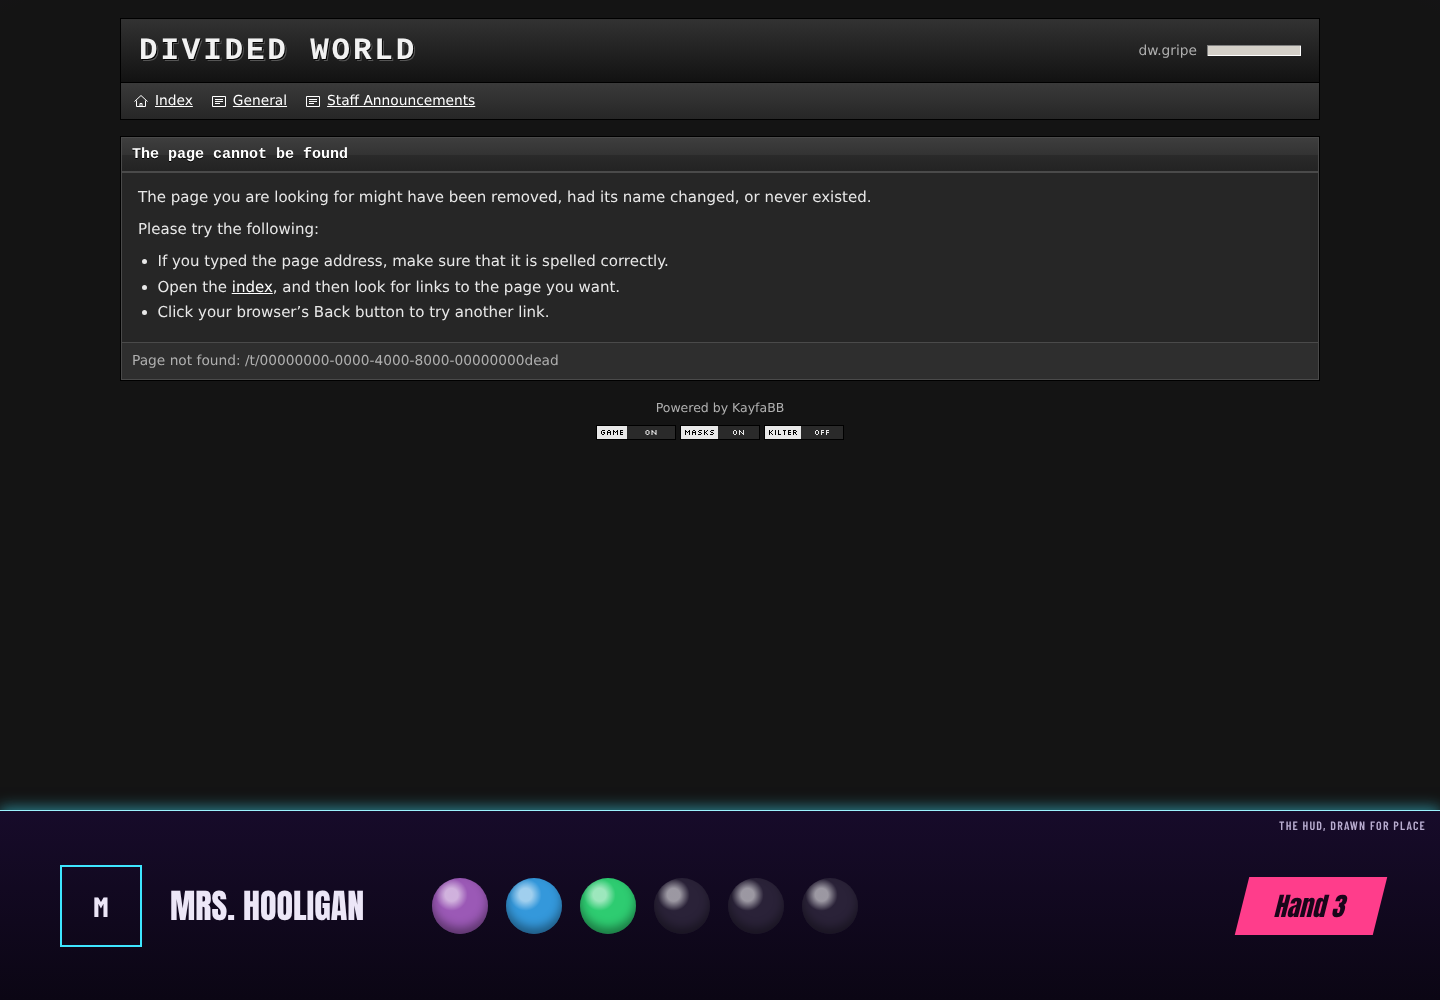
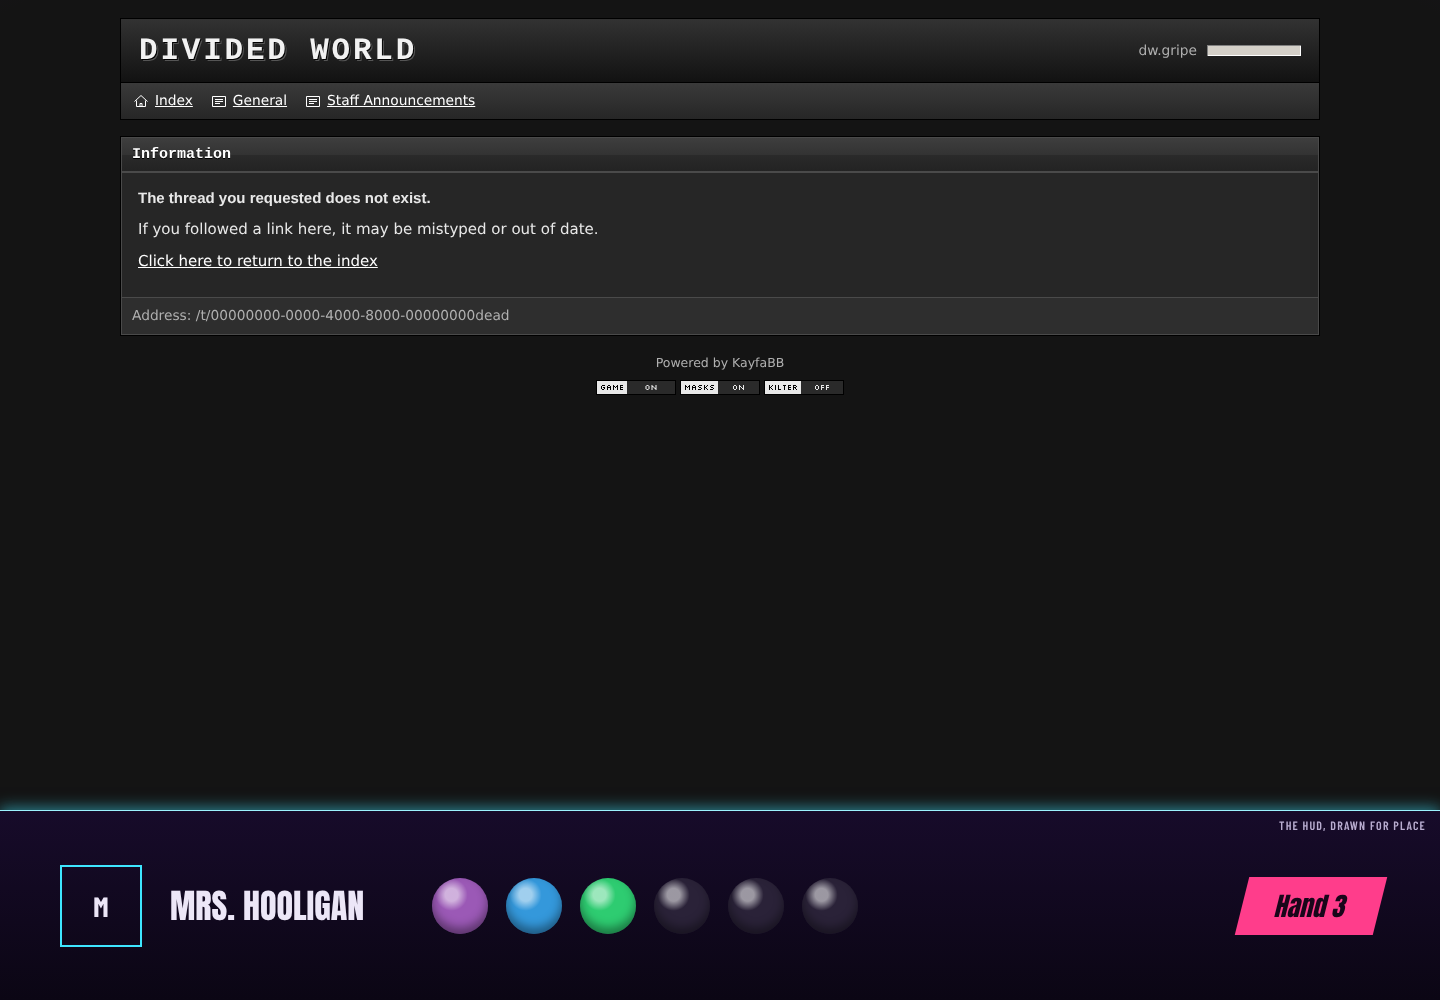
Board look design, batch 5: not found speaks as a classic forum's Information box
Claude-Session: https://claude.ai/code/session_01FiUbYNcRXR8HFEG3Dr1zti

Changed region(s): [[0.0625, 0.186, 0.9375, 0.465], [0.125, 0.124, 0.1875, 0.155]]

diff --git a/docs/research/2026-11-06-board-look/18-phone.html b/docs/research/2026-11-06-board-look/18-phone.html
@@ -340,7 +340,7 @@ table.modlog td.end { width: 220px; font-size: 13.75px; color: var(--kb-muted); 
 .phone .notice-wrap { margin-top: 30px; }
 /* ---------- batch 5: the errors ---------- */
 /* Not found is the forum answering, in its own skin: a period "Information" box. */
-table.info h1.barh { font: inherit; margin: 0; }
+table.info h1.missing { font: bold 15px/1.45 Verdana, Geneva, sans-serif; margin: 0 0 10px; }
 table.info td.msg { padding: 14px 16px; }
 table.info td.msg p { margin: 0 0 10px; }
 table.info td.msg ul { margin: 0 0 4px; padding-left: 1.3em; }
@@ -420,13 +420,13 @@ body { width: 1632px; height: 844px; }
     <button class="b boards" type="button">Boards</button>
   </header>
   <nav class="nav" aria-label="Boards"><a href="#"><svg class="ic" aria-hidden="true" width="16" height="14" viewBox="0 0 16 14"><path class="s" d="M1.5,7.5 L8,1.5 L14.5,7.5 M3.5,6.5 V12.5 H12.5 V6.5 M7,12.5 V9.5 H9 V12.5"/></svg>Index</a><a href="#"><svg class="ic" aria-hidden="true" width="16" height="14" viewBox="0 0 16 14"><path class="s" d="M1.5,2.5 H14.5 V12.5 H1.5 Z M4,5.5 H12 M4,7.5 H12 M4,9.5 H9"/></svg>General</a><a href="#"><svg class="ic" aria-hidden="true" width="16" height="14" viewBox="0 0 16 14"><path class="s" d="M1.5,2.5 H14.5 V12.5 H1.5 Z M4,5.5 H12 M4,7.5 H12 M4,9.5 H9"/></svg>Staff Announcements</a></nav>
-  <table class="t info"><caption class="vh">The page cannot be found</caption>
-    <thead><tr><td class="bar"><h1 class="barh">The page cannot be found</h1></td></tr></thead>
+  <table class="t info"><caption class="vh">Information</caption>
+    <thead><tr><td class="bar">Information</td></tr></thead>
     <tbody>
-      <tr><td class="msg"><p>The page you are looking for might have been removed, had its name changed, or never existed.</p>
-        <p>Please try the following:</p>
-        <ul><li>If you typed the page address, make sure that it is spelled correctly.</li><li>Open the <a href="#">index</a>, and then look for links to the page you want.</li><li>Click your browser’s Back button to try another link.</li></ul></td></tr>
-      <tr><td class="addr">Page not found: /c/nobody</td></tr>
+      <tr><td class="msg"><h1 class="missing">The character you requested does not exist.</h1>
+        <p>If you followed a link here, it may be mistyped or out of date.</p>
+        <p><a href="#">Click here to return to the index</a></p></td></tr>
+      <tr><td class="addr">Address: /c/nobody</td></tr>
     </tbody></table>
   <footer class="foot">Powered by KayfaBB
     <div class="badges" aria-hidden="true"><span class="b80"><span>Game</span><span>On</span></span><span class="b80"><span>Masks</span><span>On</span></span><span class="b80"><span>Kilter</span><span>Off</span></span></div>
@@ -454,13 +454,13 @@ body { width: 1632px; height: 844px; }
     <button class="b boards" type="button">Boards</button>
   </header>
   <nav class="nav" aria-label="Boards"><a href="#"><svg class="ic" aria-hidden="true" width="16" height="14" viewBox="0 0 16 14"><path class="s" d="M1.5,7.5 L8,1.5 L14.5,7.5 M3.5,6.5 V12.5 H12.5 V6.5 M7,12.5 V9.5 H9 V12.5"/></svg>Index</a><a href="#"><svg class="ic" aria-hidden="true" width="16" height="14" viewBox="0 0 16 14"><path class="s" d="M1.5,2.5 H14.5 V12.5 H1.5 Z M4,5.5 H12 M4,7.5 H12 M4,9.5 H9"/></svg>General</a><a href="#"><svg class="ic" aria-hidden="true" width="16" height="14" viewBox="0 0 16 14"><path class="s" d="M1.5,2.5 H14.5 V12.5 H1.5 Z M4,5.5 H12 M4,7.5 H12 M4,9.5 H9"/></svg>Staff Announcements</a></nav>
-  <table class="t info"><caption class="vh">The page cannot be found</caption>
-    <thead><tr><td class="bar"><h1 class="barh">The page cannot be found</h1></td></tr></thead>
+  <table class="t info"><caption class="vh">Information</caption>
+    <thead><tr><td class="bar">Information</td></tr></thead>
     <tbody>
-      <tr><td class="msg"><p>The page you are looking for might have been removed, had its name changed, or never existed.</p>
-        <p>Please try the following:</p>
-        <ul><li>If you typed the page address, make sure that it is spelled correctly.</li><li>Open the <a href="#">index</a>, and then look for links to the page you want.</li><li>Click your browser’s Back button to try another link.</li></ul></td></tr>
-      <tr><td class="addr">Page not found: /c/nobody</td></tr>
+      <tr><td class="msg"><h1 class="missing">The character you requested does not exist.</h1>
+        <p>If you followed a link here, it may be mistyped or out of date.</p>
+        <p><a href="#">Click here to return to the index</a></p></td></tr>
+      <tr><td class="addr">Address: /c/nobody</td></tr>
     </tbody></table>
   <footer class="foot">Powered by KayfaBB
     <div class="badges" aria-hidden="true"><span class="b80"><span>Game</span><span>On</span></span><span class="b80"><span>Masks</span><span>On</span></span><span class="b80"><span>Kilter</span><span>Off</span></span></div>

diff --git a/docs/research/2026-11-06-board-look/16-not-found-dark.html b/docs/research/2026-11-06-board-look/16-not-found-dark.html
@@ -2,7 +2,7 @@
 <html lang="en" data-kb-mode="dark">
 <head>
 <meta charset="utf-8">
-<title>The page cannot be found, Silver dark</title>
+<title>Information: not found, Silver dark</title>
 <!-- A board of the board look design session (docs/plans/2026-11-06-board-look-design.md), batch 5, 1440 by 1000, written by gen.mjs. -->
 <link rel="stylesheet" href="https://fonts.googleapis.com/css2?family=Anton&family=Barlow+Condensed:wght@600;700&family=Silkscreen&display=swap">
 <style>
@@ -340,7 +340,7 @@ table.modlog td.end { width: 220px; font-size: 13.75px; color: var(--kb-muted); 
 .phone .notice-wrap { margin-top: 30px; }
 /* ---------- batch 5: the errors ---------- */
 /* Not found is the forum answering, in its own skin: a period "Information" box. */
-table.info h1.barh { font: inherit; margin: 0; }
+table.info h1.missing { font: bold 15px/1.45 Verdana, Geneva, sans-serif; margin: 0 0 10px; }
 table.info td.msg { padding: 14px 16px; }
 table.info td.msg p { margin: 0 0 10px; }
 table.info td.msg ul { margin: 0 0 4px; padding-left: 1.3em; }
@@ -374,13 +374,13 @@ body { width: 1440px; height: 1000px; }
     <div class="host">dw.gripe <span class="meter"></span></div>
   </header>
   <nav class="nav" aria-label="Boards"><a href="#"><svg class="ic" aria-hidden="true" width="16" height="14" viewBox="0 0 16 14"><path class="s" d="M1.5,7.5 L8,1.5 L14.5,7.5 M3.5,6.5 V12.5 H12.5 V6.5 M7,12.5 V9.5 H9 V12.5"/></svg>Index</a><a href="#"><svg class="ic" aria-hidden="true" width="16" height="14" viewBox="0 0 16 14"><path class="s" d="M1.5,2.5 H14.5 V12.5 H1.5 Z M4,5.5 H12 M4,7.5 H12 M4,9.5 H9"/></svg>General</a><a href="#"><svg class="ic" aria-hidden="true" width="16" height="14" viewBox="0 0 16 14"><path class="s" d="M1.5,2.5 H14.5 V12.5 H1.5 Z M4,5.5 H12 M4,7.5 H12 M4,9.5 H9"/></svg>Staff Announcements</a></nav>
-  <table class="t info"><caption class="vh">The page cannot be found</caption>
-    <thead><tr><td class="bar"><h1 class="barh">The page cannot be found</h1></td></tr></thead>
+  <table class="t info"><caption class="vh">Information</caption>
+    <thead><tr><td class="bar">Information</td></tr></thead>
     <tbody>
-      <tr><td class="msg"><p>The page you are looking for might have been removed, had its name changed, or never existed.</p>
-        <p>Please try the following:</p>
-        <ul><li>If you typed the page address, make sure that it is spelled correctly.</li><li>Open the <a href="#">index</a>, and then look for links to the page you want.</li><li>Click your browser’s Back button to try another link.</li></ul></td></tr>
-      <tr><td class="addr">Page not found: /t/00000000-0000-4000-8000-00000000dead</td></tr>
+      <tr><td class="msg"><h1 class="missing">The thread you requested does not exist.</h1>
+        <p>If you followed a link here, it may be mistyped or out of date.</p>
+        <p><a href="#">Click here to return to the index</a></p></td></tr>
+      <tr><td class="addr">Address: /t/00000000-0000-4000-8000-00000000dead</td></tr>
     </tbody></table>
   <footer class="foot">Powered by KayfaBB
     <div class="badges" aria-hidden="true"><span class="b80"><span>Game</span><span>On</span></span><span class="b80"><span>Masks</span><span>On</span></span><span class="b80"><span>Kilter</span><span>Off</span></span></div>

diff --git a/docs/research/2026-11-06-board-look/16-not-found.html b/docs/research/2026-11-06-board-look/16-not-found.html
@@ -2,7 +2,7 @@
 <html lang="en">
 <head>
 <meta charset="utf-8">
-<title>The page cannot be found, Silver light</title>
+<title>Information: not found, Silver light</title>
 <!-- A board of the board look design session (docs/plans/2026-11-06-board-look-design.md), batch 5, 1440 by 1000, written by gen.mjs. -->
 <link rel="stylesheet" href="https://fonts.googleapis.com/css2?family=Anton&family=Barlow+Condensed:wght@600;700&family=Silkscreen&display=swap">
 <style>
@@ -340,7 +340,7 @@ table.modlog td.end { width: 220px; font-size: 13.75px; color: var(--kb-muted); 
 .phone .notice-wrap { margin-top: 30px; }
 /* ---------- batch 5: the errors ---------- */
 /* Not found is the forum answering, in its own skin: a period "Information" box. */
-table.info h1.barh { font: inherit; margin: 0; }
+table.info h1.missing { font: bold 15px/1.45 Verdana, Geneva, sans-serif; margin: 0 0 10px; }
 table.info td.msg { padding: 14px 16px; }
 table.info td.msg p { margin: 0 0 10px; }
 table.info td.msg ul { margin: 0 0 4px; padding-left: 1.3em; }
@@ -374,13 +374,13 @@ body { width: 1440px; height: 1000px; }
     <div class="host">dw.gripe <span class="meter"></span></div>
   </header>
   <nav class="nav" aria-label="Boards"><a href="#"><svg class="ic" aria-hidden="true" width="16" height="14" viewBox="0 0 16 14"><path class="s" d="M1.5,7.5 L8,1.5 L14.5,7.5 M3.5,6.5 V12.5 H12.5 V6.5 M7,12.5 V9.5 H9 V12.5"/></svg>Index</a><a href="#"><svg class="ic" aria-hidden="true" width="16" height="14" viewBox="0 0 16 14"><path class="s" d="M1.5,2.5 H14.5 V12.5 H1.5 Z M4,5.5 H12 M4,7.5 H12 M4,9.5 H9"/></svg>General</a><a href="#"><svg class="ic" aria-hidden="true" width="16" height="14" viewBox="0 0 16 14"><path class="s" d="M1.5,2.5 H14.5 V12.5 H1.5 Z M4,5.5 H12 M4,7.5 H12 M4,9.5 H9"/></svg>Staff Announcements</a></nav>
-  <table class="t info"><caption class="vh">The page cannot be found</caption>
-    <thead><tr><td class="bar"><h1 class="barh">The page cannot be found</h1></td></tr></thead>
+  <table class="t info"><caption class="vh">Information</caption>
+    <thead><tr><td class="bar">Information</td></tr></thead>
     <tbody>
-      <tr><td class="msg"><p>The page you are looking for might have been removed, had its name changed, or never existed.</p>
-        <p>Please try the following:</p>
-        <ul><li>If you typed the page address, make sure that it is spelled correctly.</li><li>Open the <a href="#">index</a>, and then look for links to the page you want.</li><li>Click your browser’s Back button to try another link.</li></ul></td></tr>
-      <tr><td class="addr">Page not found: /t/00000000-0000-4000-8000-00000000dead</td></tr>
+      <tr><td class="msg"><h1 class="missing">The thread you requested does not exist.</h1>
+        <p>If you followed a link here, it may be mistyped or out of date.</p>
+        <p><a href="#">Click here to return to the index</a></p></td></tr>
+      <tr><td class="addr">Address: /t/00000000-0000-4000-8000-00000000dead</td></tr>
     </tbody></table>
   <footer class="foot">Powered by KayfaBB
     <div class="badges" aria-hidden="true"><span class="b80"><span>Game</span><span>On</span></span><span class="b80"><span>Masks</span><span>On</span></span><span class="b80"><span>Kilter</span><span>Off</span></span></div>

diff --git a/docs/research/2026-11-06-board-look/01-index-dark.html b/docs/research/2026-11-06-board-look/01-index-dark.html
@@ -340,7 +340,7 @@ table.modlog td.end { width: 220px; font-size: 13.75px; color: var(--kb-muted); 
 .phone .notice-wrap { margin-top: 30px; }
 /* ---------- batch 5: the errors ---------- */
 /* Not found is the forum answering, in its own skin: a period "Information" box. */
-table.info h1.barh { font: inherit; margin: 0; }
+table.info h1.missing { font: bold 15px/1.45 Verdana, Geneva, sans-serif; margin: 0 0 10px; }
 table.info td.msg { padding: 14px 16px; }
 table.info td.msg p { margin: 0 0 10px; }
 table.info td.msg ul { margin: 0 0 4px; padding-left: 1.3em; }

diff --git a/docs/research/2026-11-06-board-look/01-index.html b/docs/research/2026-11-06-board-look/01-index.html
@@ -340,7 +340,7 @@ table.modlog td.end { width: 220px; font-size: 13.75px; color: var(--kb-muted); 
 .phone .notice-wrap { margin-top: 30px; }
 /* ---------- batch 5: the errors ---------- */
 /* Not found is the forum answering, in its own skin: a period "Information" box. */
-table.info h1.barh { font: inherit; margin: 0; }
+table.info h1.missing { font: bold 15px/1.45 Verdana, Geneva, sans-serif; margin: 0 0 10px; }
 table.info td.msg { padding: 14px 16px; }
 table.info td.msg p { margin: 0 0 10px; }
 table.info td.msg ul { margin: 0 0 4px; padding-left: 1.3em; }

diff --git a/docs/research/2026-11-06-board-look/02-board-dark.html b/docs/research/2026-11-06-board-look/02-board-dark.html
@@ -340,7 +340,7 @@ table.modlog td.end { width: 220px; font-size: 13.75px; color: var(--kb-muted); 
 .phone .notice-wrap { margin-top: 30px; }
 /* ---------- batch 5: the errors ---------- */
 /* Not found is the forum answering, in its own skin: a period "Information" box. */
-table.info h1.barh { font: inherit; margin: 0; }
+table.info h1.missing { font: bold 15px/1.45 Verdana, Geneva, sans-serif; margin: 0 0 10px; }
 table.info td.msg { padding: 14px 16px; }
 table.info td.msg p { margin: 0 0 10px; }
 table.info td.msg ul { margin: 0 0 4px; padding-left: 1.3em; }

diff --git a/docs/research/2026-11-06-board-look/02-board.html b/docs/research/2026-11-06-board-look/02-board.html
@@ -340,7 +340,7 @@ table.modlog td.end { width: 220px; font-size: 13.75px; color: var(--kb-muted); 
 .phone .notice-wrap { margin-top: 30px; }
 /* ---------- batch 5: the errors ---------- */
 /* Not found is the forum answering, in its own skin: a period "Information" box. */
-table.info h1.barh { font: inherit; margin: 0; }
+table.info h1.missing { font: bold 15px/1.45 Verdana, Geneva, sans-serif; margin: 0 0 10px; }
 table.info td.msg { padding: 14px 16px; }
 table.info td.msg p { margin: 0 0 10px; }
 table.info td.msg ul { margin: 0 0 4px; padding-left: 1.3em; }

diff --git a/docs/research/2026-11-06-board-look/03-phone.html b/docs/research/2026-11-06-board-look/03-phone.html
@@ -340,7 +340,7 @@ table.modlog td.end { width: 220px; font-size: 13.75px; color: var(--kb-muted); 
 .phone .notice-wrap { margin-top: 30px; }
 /* ---------- batch 5: the errors ---------- */
 /* Not found is the forum answering, in its own skin: a period "Information" box. */
-table.info h1.barh { font: inherit; margin: 0; }
+table.info h1.missing { font: bold 15px/1.45 Verdana, Geneva, sans-serif; margin: 0 0 10px; }
 table.info td.msg { padding: 14px 16px; }
 table.info td.msg p { margin: 0 0 10px; }
 table.info td.msg ul { margin: 0 0 4px; padding-left: 1.3em; }

diff --git a/docs/research/2026-11-06-board-look/04-thread-dark.html b/docs/research/2026-11-06-board-look/04-thread-dark.html
@@ -340,7 +340,7 @@ table.modlog td.end { width: 220px; font-size: 13.75px; color: var(--kb-muted); 
 .phone .notice-wrap { margin-top: 30px; }
 /* ---------- batch 5: the errors ---------- */
 /* Not found is the forum answering, in its own skin: a period "Information" box. */
-table.info h1.barh { font: inherit; margin: 0; }
+table.info h1.missing { font: bold 15px/1.45 Verdana, Geneva, sans-serif; margin: 0 0 10px; }
 table.info td.msg { padding: 14px 16px; }
 table.info td.msg p { margin: 0 0 10px; }
 table.info td.msg ul { margin: 0 0 4px; padding-left: 1.3em; }

diff --git a/docs/research/2026-11-06-board-look/04-thread.html b/docs/research/2026-11-06-board-look/04-thread.html
@@ -340,7 +340,7 @@ table.modlog td.end { width: 220px; font-size: 13.75px; color: var(--kb-muted); 
 .phone .notice-wrap { margin-top: 30px; }
 /* ---------- batch 5: the errors ---------- */
 /* Not found is the forum answering, in its own skin: a period "Information" box. */
-table.info h1.barh { font: inherit; margin: 0; }
+table.info h1.missing { font: bold 15px/1.45 Verdana, Geneva, sans-serif; margin: 0 0 10px; }
 table.info td.msg { padding: 14px 16px; }
 table.info td.msg p { margin: 0 0 10px; }
 table.info td.msg ul { margin: 0 0 4px; padding-left: 1.3em; }

diff --git a/docs/research/2026-11-06-board-look/05-reply-dark.html b/docs/research/2026-11-06-board-look/05-reply-dark.html
@@ -340,7 +340,7 @@ table.modlog td.end { width: 220px; font-size: 13.75px; color: var(--kb-muted); 
 .phone .notice-wrap { margin-top: 30px; }
 /* ---------- batch 5: the errors ---------- */
 /* Not found is the forum answering, in its own skin: a period "Information" box. */
-table.info h1.barh { font: inherit; margin: 0; }
+table.info h1.missing { font: bold 15px/1.45 Verdana, Geneva, sans-serif; margin: 0 0 10px; }
 table.info td.msg { padding: 14px 16px; }
 table.info td.msg p { margin: 0 0 10px; }
 table.info td.msg ul { margin: 0 0 4px; padding-left: 1.3em; }

diff --git a/docs/research/2026-11-06-board-look/05-reply.html b/docs/research/2026-11-06-board-look/05-reply.html
@@ -340,7 +340,7 @@ table.modlog td.end { width: 220px; font-size: 13.75px; color: var(--kb-muted); 
 .phone .notice-wrap { margin-top: 30px; }
 /* ---------- batch 5: the errors ---------- */
 /* Not found is the forum answering, in its own skin: a period "Information" box. */
-table.info h1.barh { font: inherit; margin: 0; }
+table.info h1.missing { font: bold 15px/1.45 Verdana, Geneva, sans-serif; margin: 0 0 10px; }
 table.info td.msg { padding: 14px 16px; }
 table.info td.msg p { margin: 0 0 10px; }
 table.info td.msg ul { margin: 0 0 4px; padding-left: 1.3em; }
